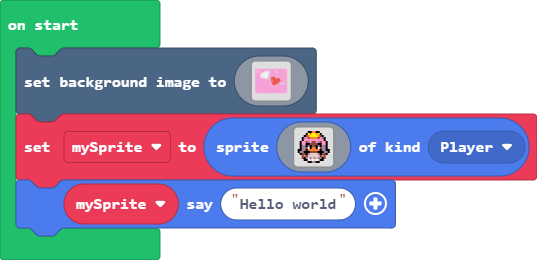
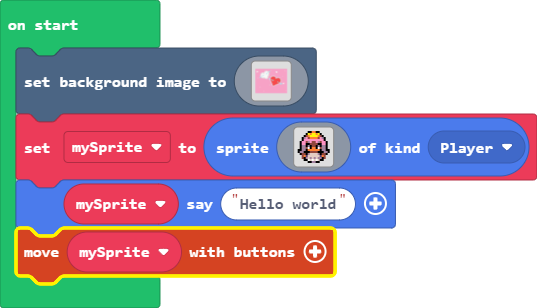
sprite can move now

diff --git a/main.ts b/main.ts
@@ -139,3 +139,4 @@ let mySprite = sprites.create(img`
     . . . . . f f b b f f . . . . . 
     `, SpriteKind.Player)
 mySprite.sayText("Hello world")
+controller.moveSprite(mySprite)
